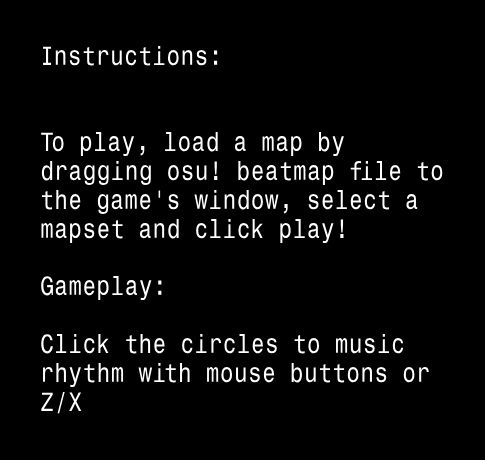
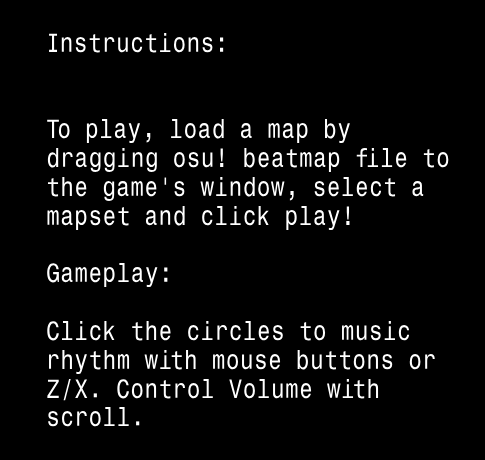
update info with volume control

diff --git a/core/src/com/mygdx/game/screen/MenuScreen.java b/core/src/com/mygdx/game/screen/MenuScreen.java
@@ -97,11 +97,12 @@ public class MenuScreen implements Screen {
 
             if (Gdx.input.isTouched()) {
                 if (!game.files.isEmpty()) { // file drop listener
-                    this.dispose();
+
                     if (isProperOszFile(game.files.get(game.files.size() - 1))) {
                         // load map here
                         try {
                             game.setScreen(new GameScreen(game));
+                            this.dispose();
                         } catch (IOException e) {
                             System.out.println(e.getMessage());
                         }
@@ -168,5 +169,3 @@ public class MenuScreen implements Screen {
 
     }
 }
-
-//Gdx.app.exit()
